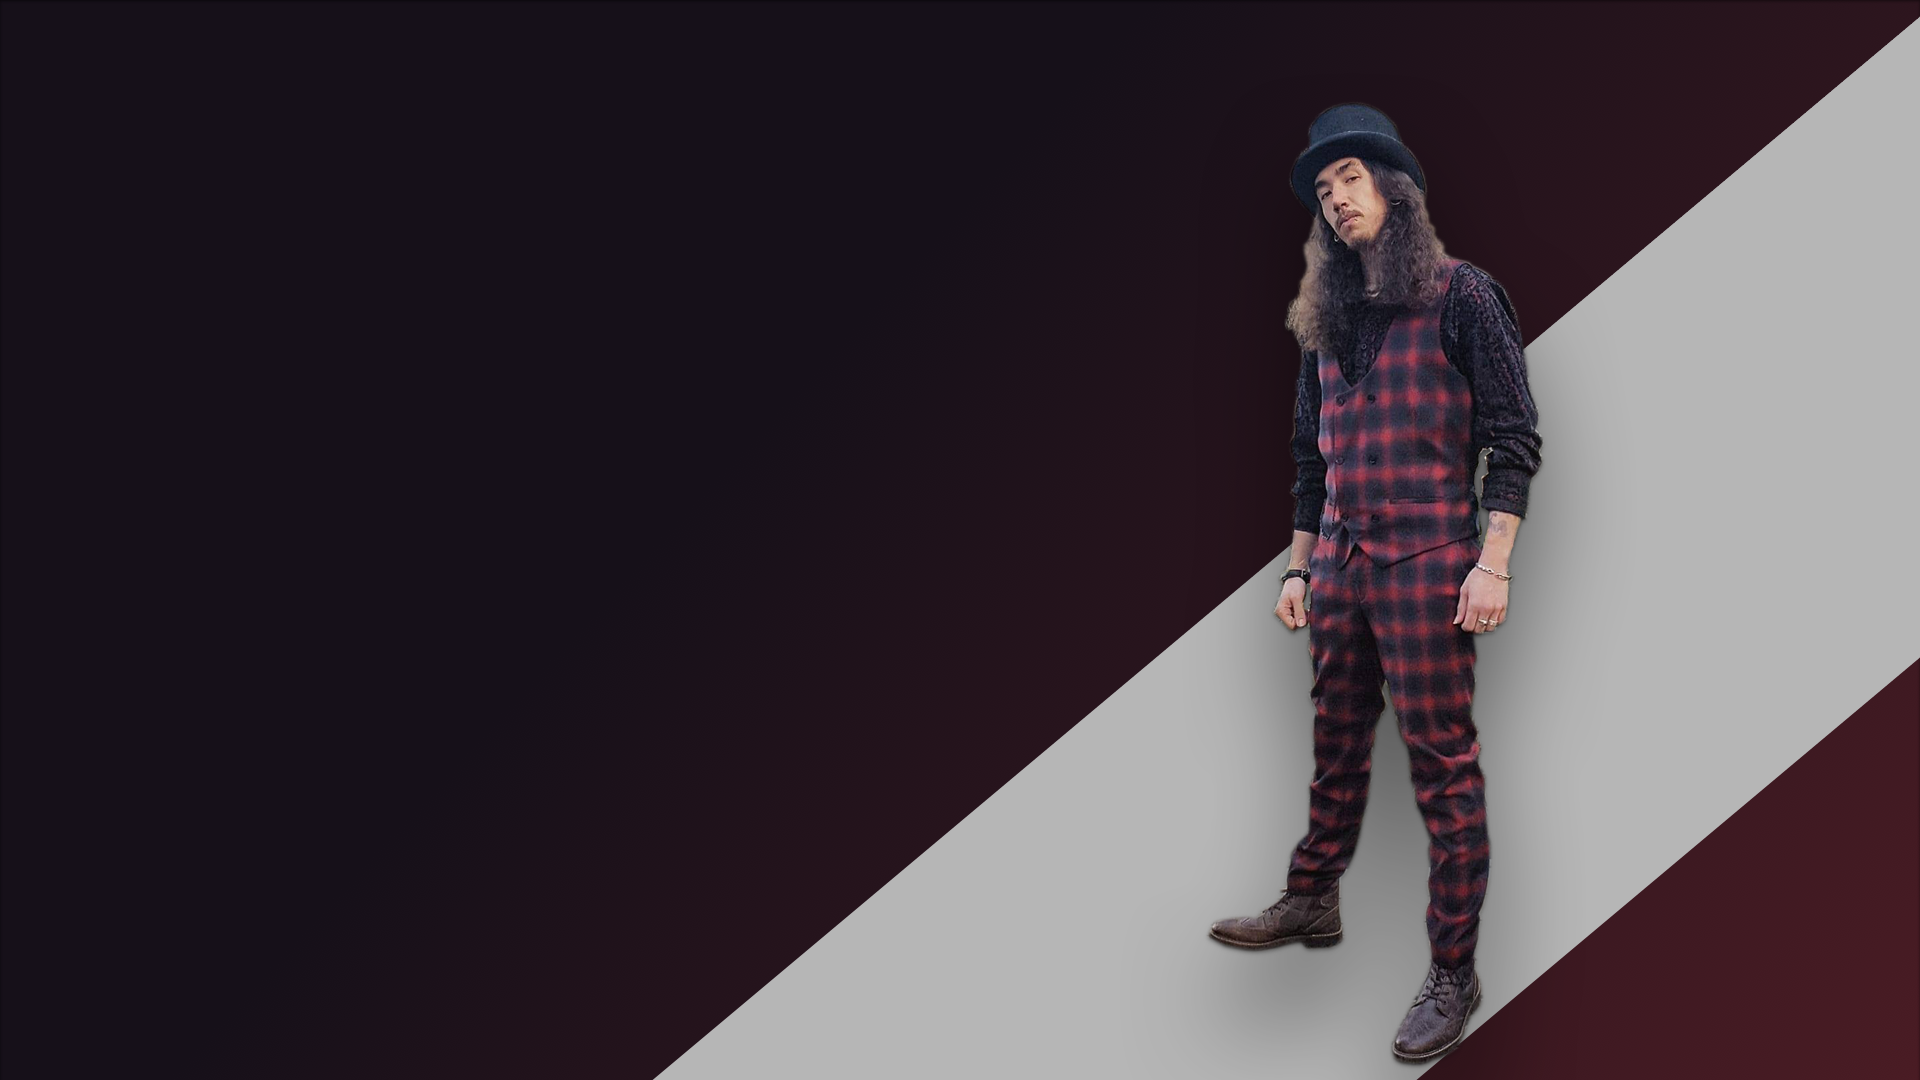
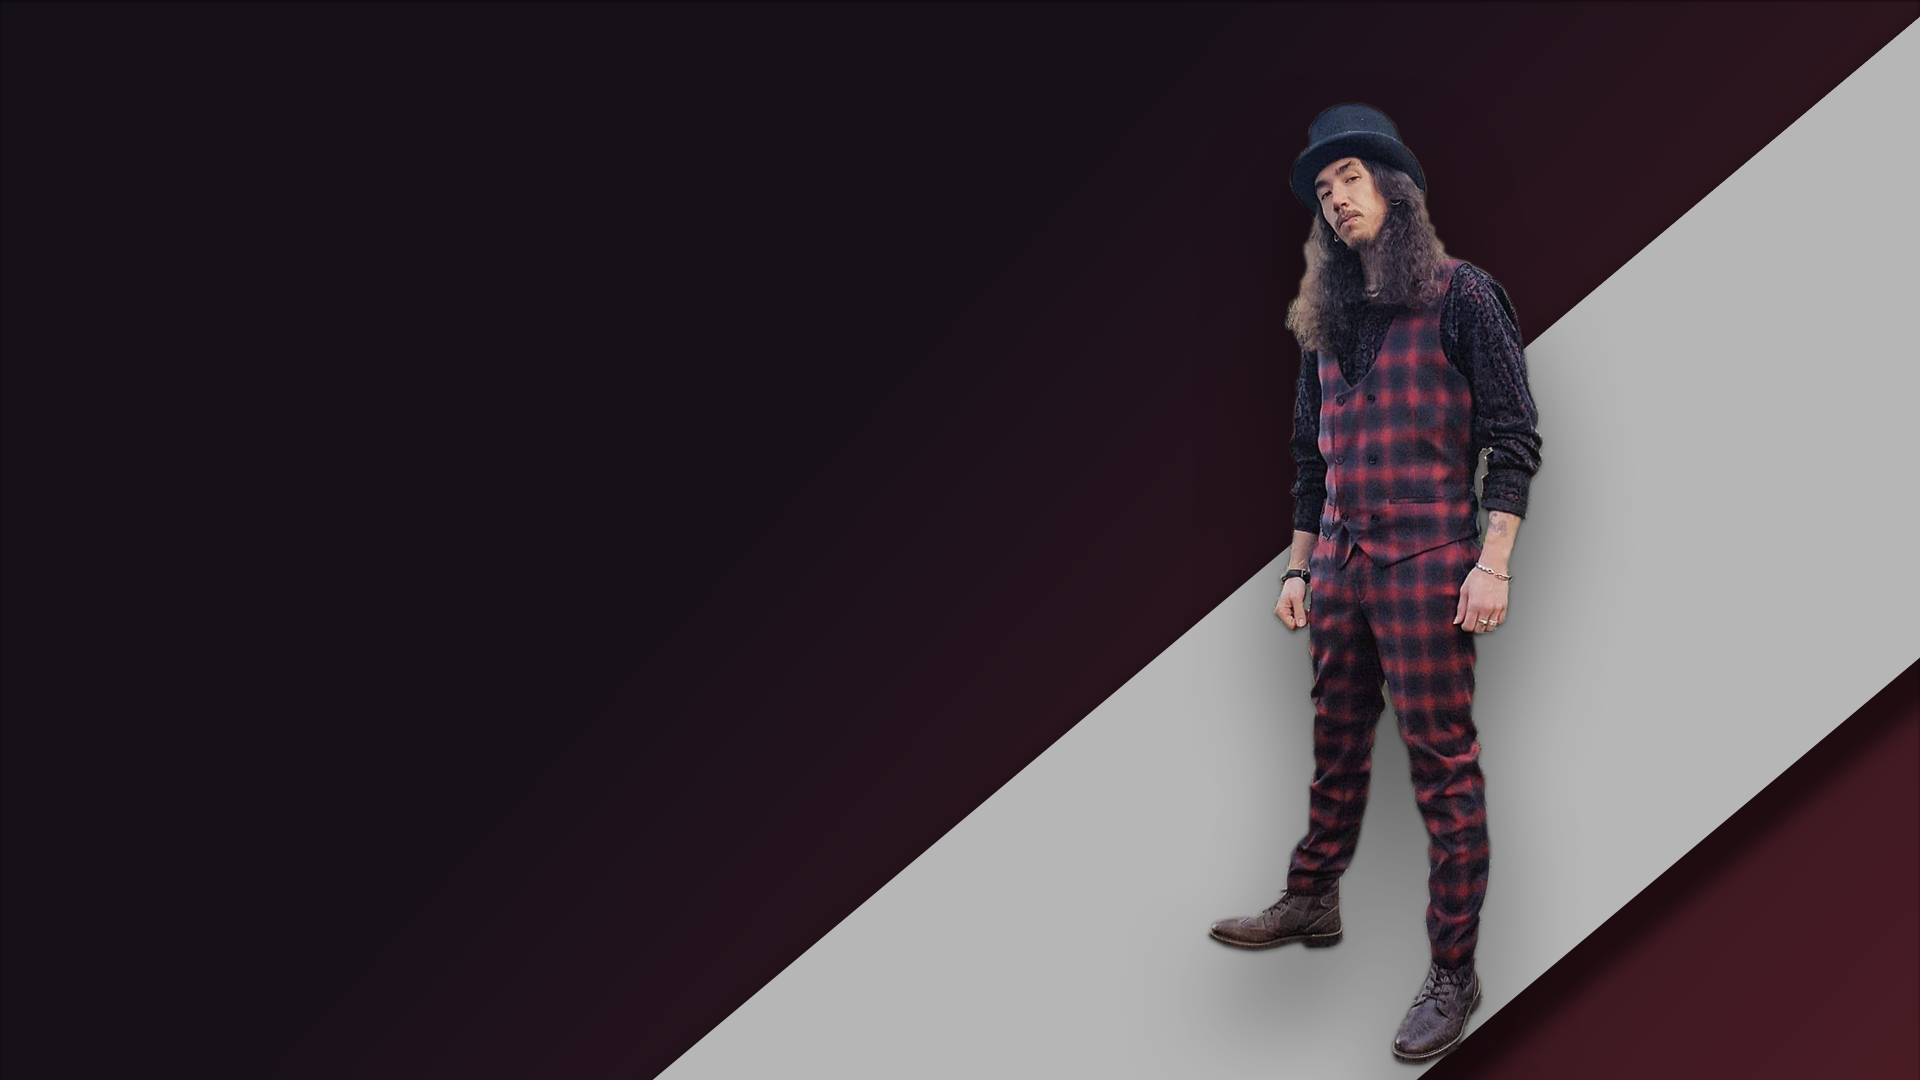
fixed typo in bio text, added shadows to background bio image

Changed region(s): [[0.75, 0.6111, 1.0, 1.0]]

diff --git a/index.html b/index.html
@@ -207,8 +207,8 @@
                 <div class="col-sm-10 offset-sm-1  col-lg-6 offset-lg-1  bio-text">
                     <h3 class="headerheader-white">Hi, my name is Tj Dean</h3>
                     <hr class="block-divider-faq container-fluid">
-                    <p>I’m a apprentice tattoo artist living in Orihuela Costa, Spain.My current mentor is Adam Dutton.</p><br>
-                    <p>My passion for tattoos was cultivated at a young age, both my parents are tattoo artist , they are the main motivating factor behind my passion.<br>From spending countless hours in the Studio from a young age to being taught the art
+                    <p>I’m an apprentice tattoo artist living in Orihuela Costa, Spain.My current mentor is Adam Dutton.</p><br>
+                    <p>My passion for tattoos was cultivated at a young age, both my parents are tattoos artist , they are the main motivating factor behind my passion.<br>From spending countless hours in the Studio from a young age to being taught the art
                         of sketching by my mum. </p><br>
                     <p>My mentor is World Class Tattoo Artist Adam Dutton over the space of the last 2 years he has been teaching me everything he knows.</p>
                     <hr class="block-divider-faq container-fluid">
